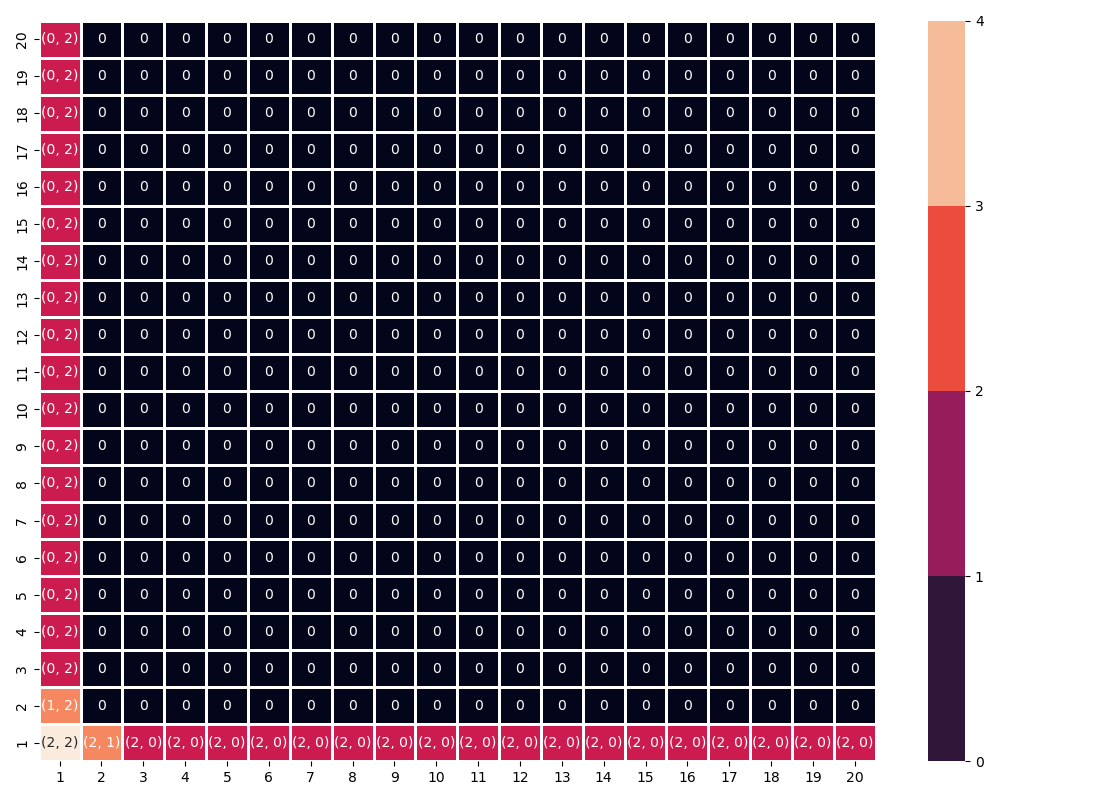
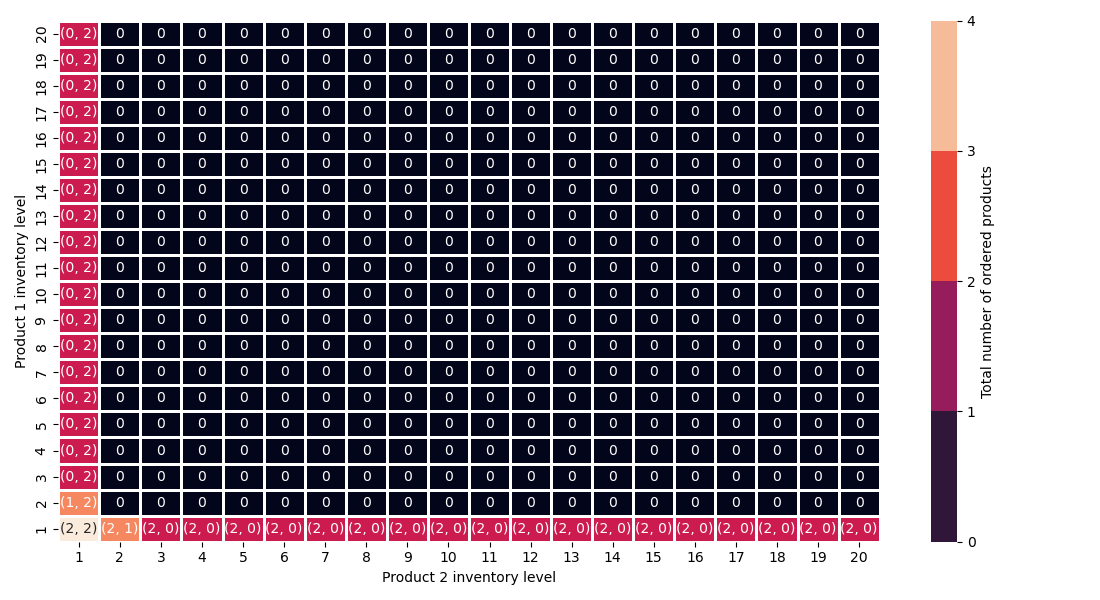
.

diff --git a/a2_mdp/mdp.py b/a2_mdp/mdp.py
@@ -259,14 +259,17 @@ def visualize_policy(Pol:ndarray, A:ndarray, X:ndarray) -> None:
     
     
     # Create a figure with a custom gridspec layout
-    fig = plt.figure(figsize=(11, 8))
+    fig = plt.figure(figsize=(11, 6))
     hmp = heatmap(pZ,
                   annot = vals, fmt = 's',
                   linewidth=.8,
-                  cbar_kws={'boundaries': arange(0, pZ.max()+1)})
+                  cbar_kws={'boundaries': arange(0, pZ.max()+1),
+                            'label':'Total number of ordered products'})
     hmp.invert_yaxis()
     hmp.set_yticklabels(arange(1, 21))
     hmp.set_xticklabels(arange(1, 21))
+    plt.ylabel('Product 1 inventory level')
+    plt.xlabel('Product 2 inventory level')
     plt.tight_layout()
     plt.savefig('optimal_policy.png')
     plt.show()
